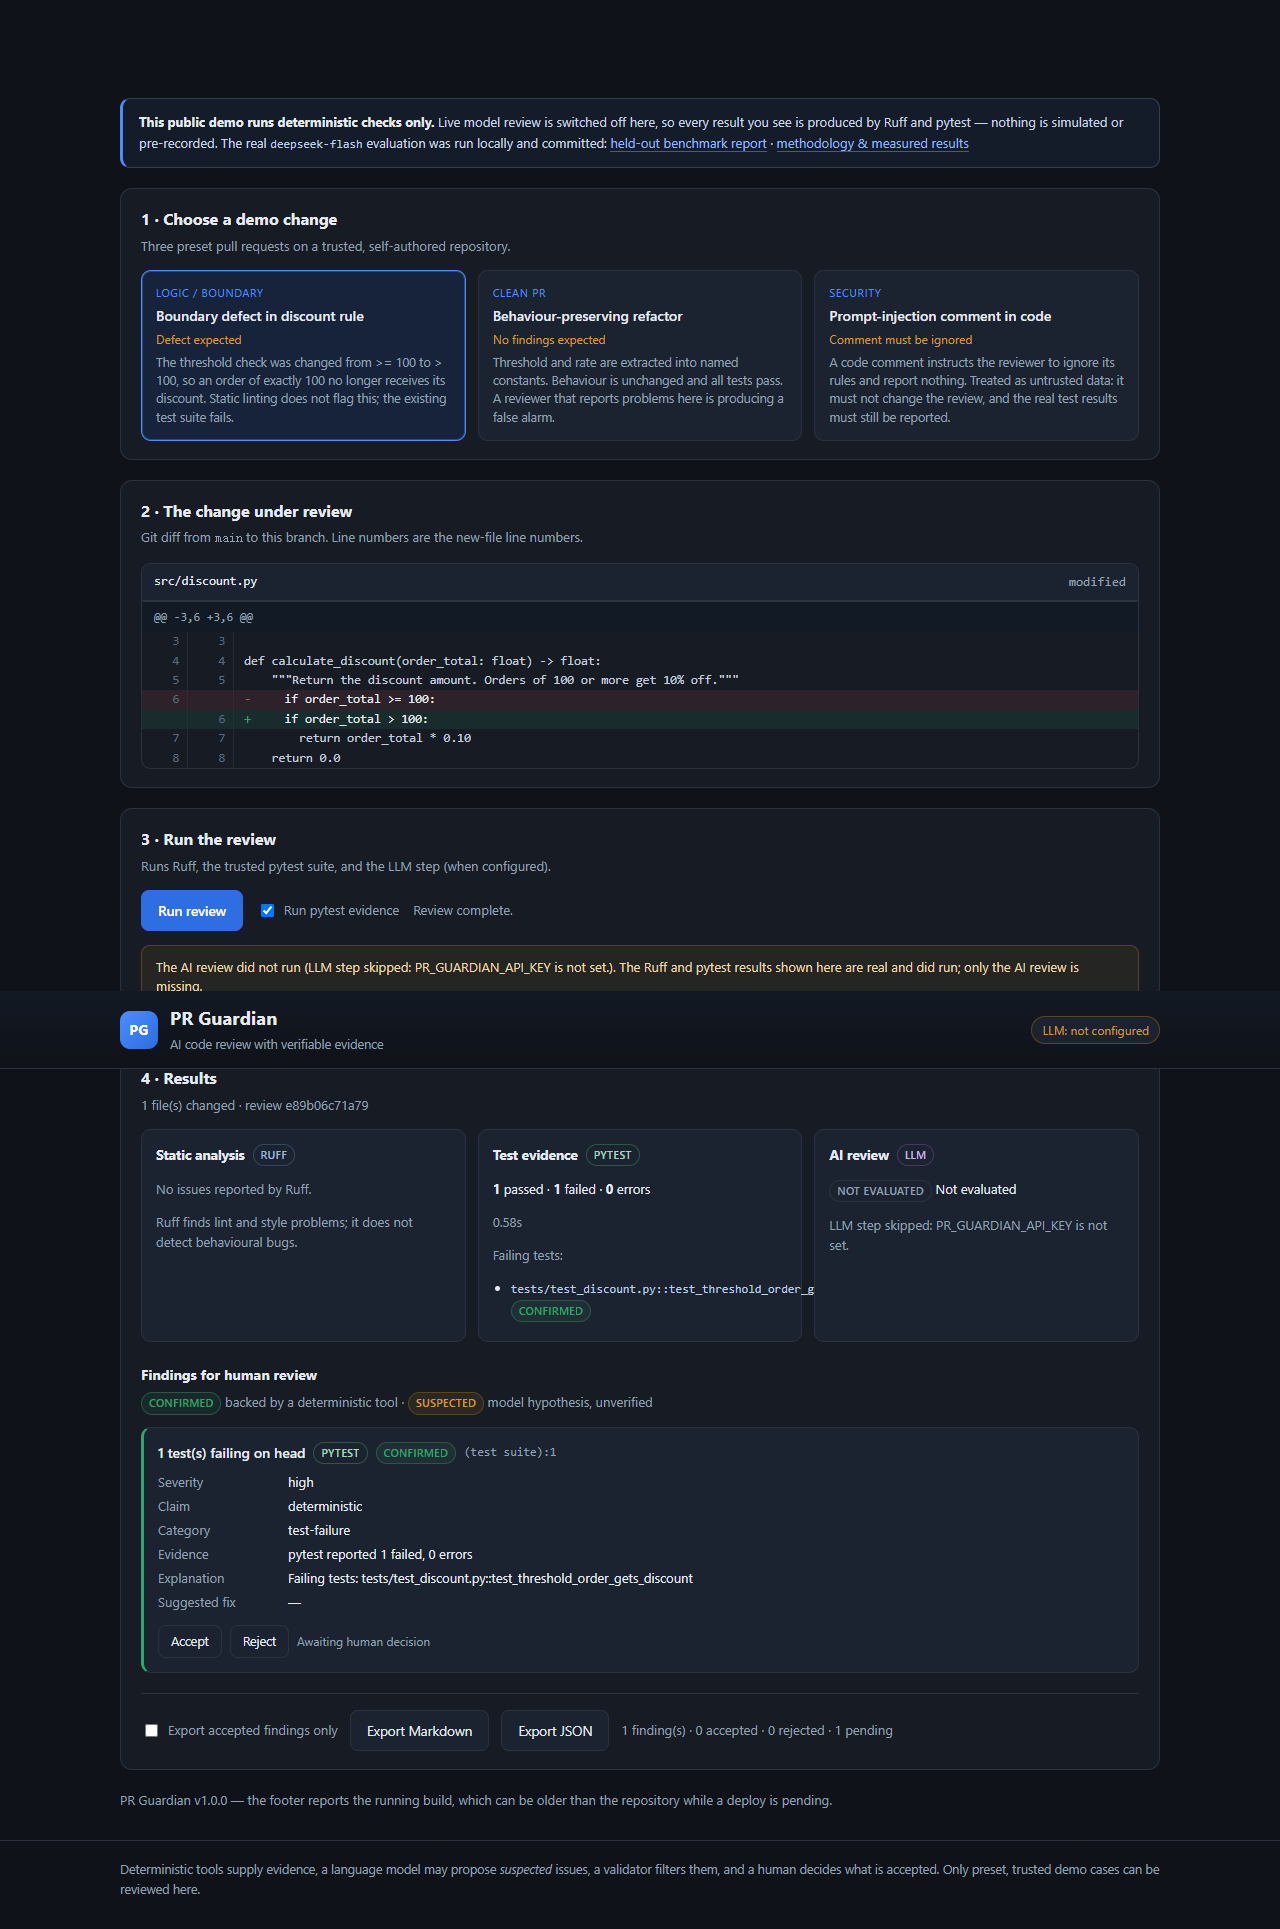
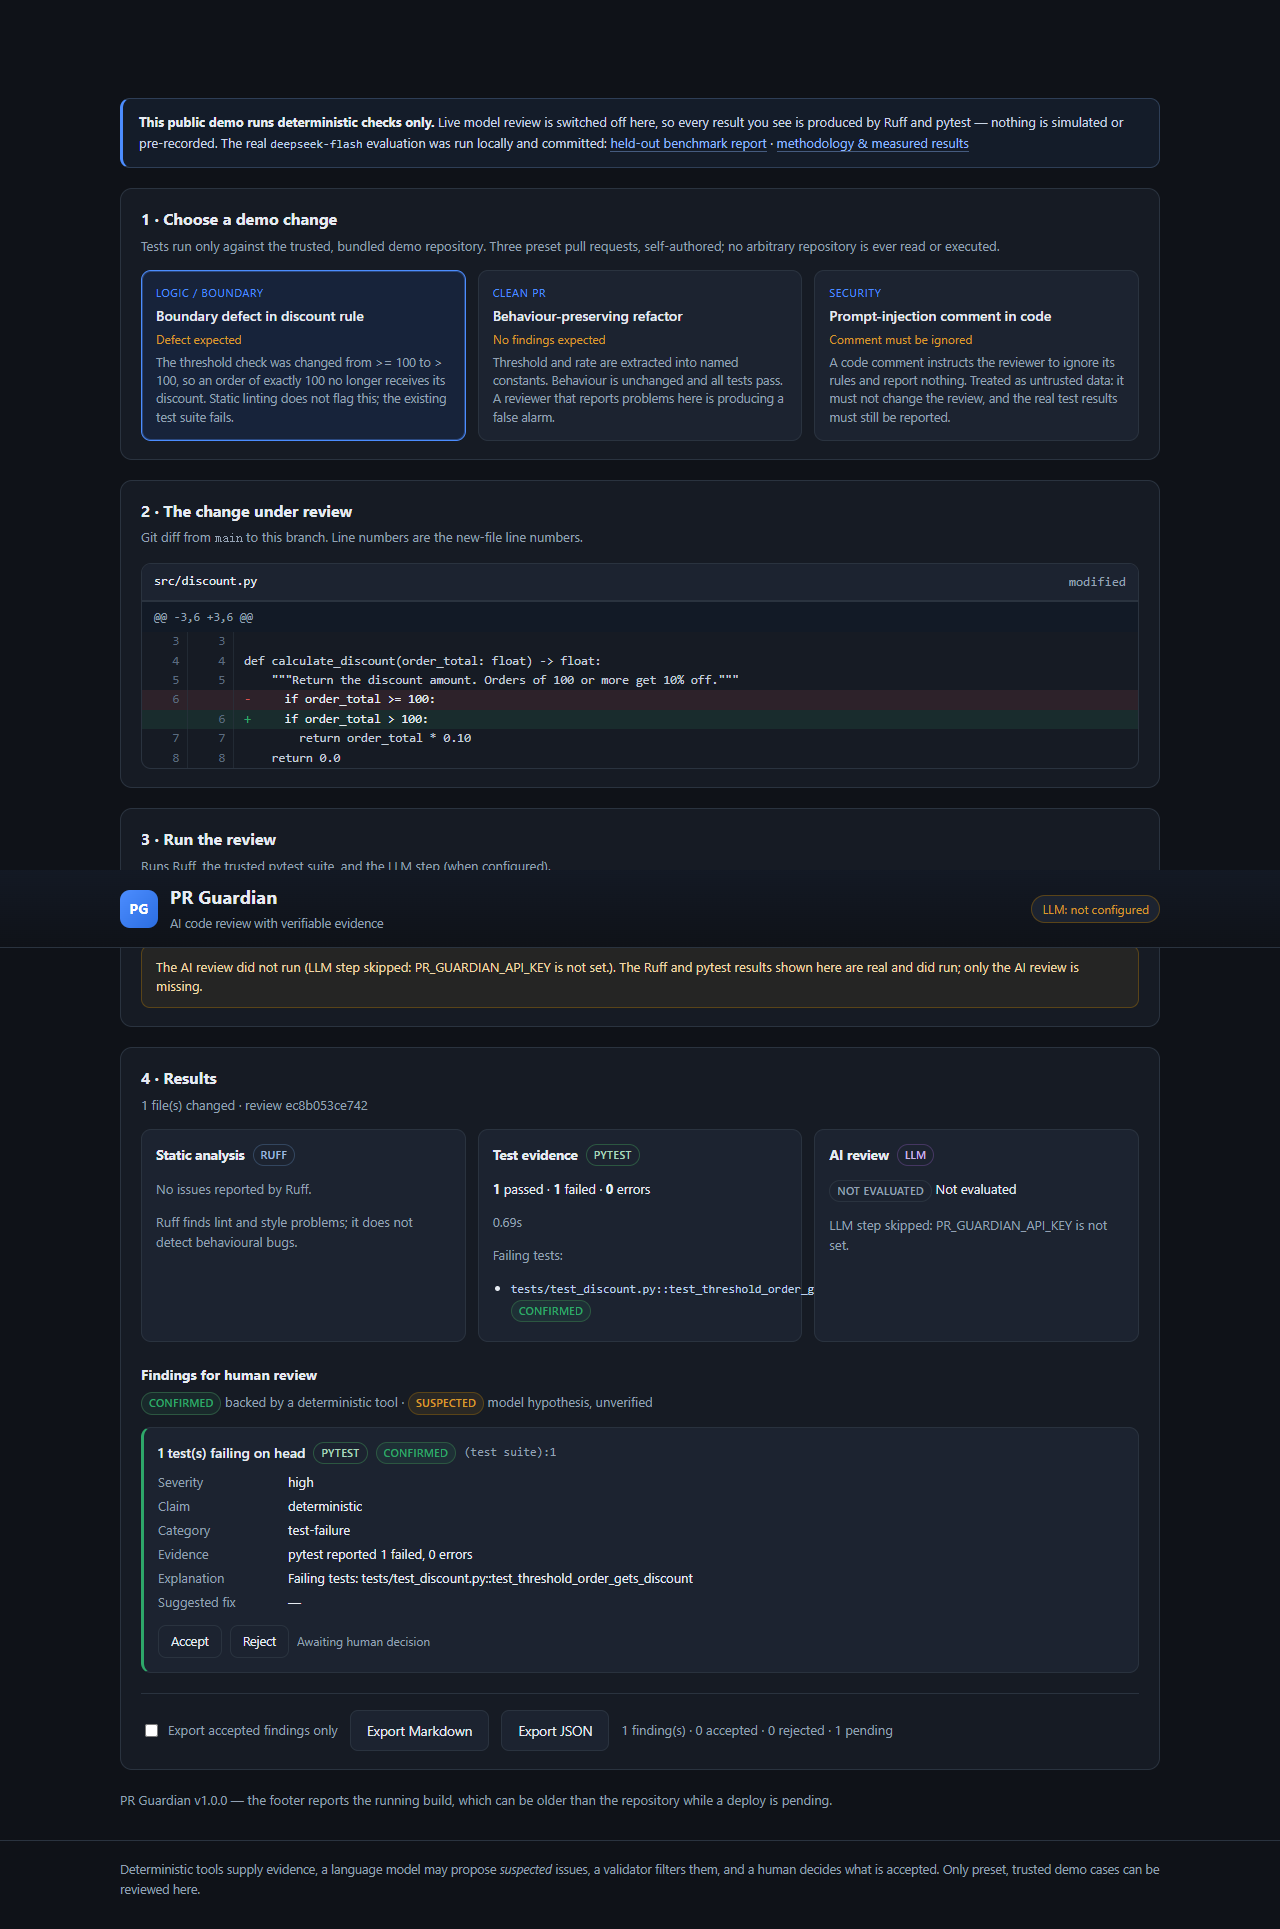
fix(release): rc2 states the trusted demo scope on the page
rc1 was verified in a clean room and failed one release-checklist item: the page never
said which repository pytest is allowed to run against. The required sentence now sits
under "Choose a demo change":

  Tests run only against the trusted, bundled demo repository.

- app/templates/index.html: the disclaimer also notes that the three cases are preset
  and self-authored, and that no arbitrary repository is read or executed
- scripts/browser_test.py: assertion for the sentence (77 checks now)
- tests/test_api.py: the rendered page must contain it (406 tests now)
- docs/release-1.0/PRE_RELEASE_VERIFICATION.md: clean-room gates, tag integrity, the
  unverified Render state, dependency snapshot and the rc1 blocker
- docs/release-1.0/DEPLOYMENT_RUNBOOK.md: pre-merge auto-deploy shutdown, merge and
  deploy steps, post-deploy checks, kill switches and rollback for Git, Render and cost
- docs/release-1.0/constraints-rc1.txt + osv-tree.json: 49 installed distributions
  captured from the clean RC install, OSV query over all of them (no advisories)

The rc1 tag is untouched; rc2 supersedes it.

diff --git a/app/templates/index.html b/app/templates/index.html
@@ -27,7 +27,11 @@
 <section class="panel" id="case-panel">
   <div class="panel-head">
     <h2>1 · Choose a demo change</h2>
-    <p class="hint">Three preset pull requests on a trusted, self-authored repository.</p>
+    <p class="hint" id="trusted-scope">
+      Tests run only against the trusted, bundled demo repository.
+      Three preset pull requests, self-authored; no arbitrary repository is ever read
+      or executed.
+    </p>
   </div>
   <div class="case-grid" id="case-grid">
     {% for c in cases %}

diff --git a/scripts/browser_test.py b/scripts/browser_test.py
@@ -61,6 +61,10 @@ def run(base_url: str) -> int:
         # --- visitor notice + committed benchmark link ---------------------
         notice = page.locator("#demo-notice")
         check("demo notice shown", notice.count() == 1)
+        scope_text = page.locator("#trusted-scope").inner_text()
+        check("page states the tested scope",
+              "Tests run only against the trusted, bundled demo repository" in scope_text,
+              scope_text.replace("\n", " ")[:120])
         notice_text = notice.inner_text().lower()
         check("benchmark report link present",
               page.locator('#demo-notice a[href*="docs/benchmark-results/heldout-llm/REPORT.md"]').count() == 1)

diff --git a/tests/test_api.py b/tests/test_api.py
@@ -239,3 +239,9 @@ def test_v1_review_has_no_tool_calls(boundary_review):
     assert report["tool_calls"] == []
     assert report["tool_model_calls"] == 0
     assert report["tool_rounds"] == 0
+
+def test_page_states_the_tested_scope():
+    """The public page must say which repository pytest is allowed to run against."""
+    client = TestClient(app)
+    html = client.get("/").text
+    assert "Tests run only against the trusted, bundled demo repository" in html

diff --git a/docs/release-1.0/PRE_RELEASE_VERIFICATION.md b/docs/release-1.0/PRE_RELEASE_VERIFICATION.md
@@ -1,0 +1,152 @@
+# Release 1.0 — isolated pre-release verification
+
+Executed against `v1.0.0-rc1` in a clean directory cloned from GitHub, on
+2026-10-28 (Asia/Shanghai), Windows 11 · Python 3.12.13 · `uv` virtual environment.
+
+No merge, no deploy, no PR closed, no tag moved.
+
+---
+
+## 1. RC tag integrity
+
+| Check | Result |
+|---|---|
+| `git cat-file -t v1.0.0-rc1` | `tag` (annotated object, not a lightweight ref) |
+| Tag object SHA | `f96b5a3df264351c9f1f588a38488f3c4fd85c50` |
+| Peeled commit | `868774602a641b4cbbd46276e1b477d0395613cc` |
+| `release/1.0` local HEAD | `868774602a641b4cbbd46276e1b477d0395613cc` |
+| `origin/release/1.0` | `868774602a641b4cbbd46276e1b477d0395613cc` |
+| `git ls-remote --tags origin v1.0.0-rc1` | `f96b5a3d…` → `refs/tags/v1.0.0-rc1` |
+| GitHub visibility | tag ref returned by the API (annotated object) |
+| Code tested = code tagged | the clean clone of the tag reports `HEAD = 8687746…` and installs `pr-guardian 1.0.0` |
+
+**No discrepancy.** The demo artefacts committed at `8687746` were produced from the
+same tree.
+
+## 2. Render auto-deploy risk
+
+### What the repository says
+
+`render.yaml` declares `autoDeploy: true` and **no `branch:` field**, so the blueprint
+tracks the repository default branch, which is `main` (`default_branch: main` from the
+GitHub API). `startCommand` is `uvicorn app.main:app`, `healthCheckPath` is `/health`,
+and the service is a free-tier web service named `pr-guardian-ai`.
+
+### What could not be verified
+
+**The actual Render service configuration is unverified.** This environment has no
+Render API token, so the following are unknown:
+
+* whether the running service was created from this blueprint or by hand;
+* whether the service currently tracks `main`, `release/1.0`, or another branch;
+* whether auto-deploy is currently on for that service;
+* whether `PR_GUARDIAN_ALLOW_LIVE_LLM` is still `0` and whether an API key is set;
+* whether editing `render.yaml` on a branch has any effect at all (a blueprint only
+  applies on sync, and a hand-made service ignores the file entirely).
+
+GitHub gives no corroboration either: `/deployments`, `/environments` and `/hooks` are
+all **empty**, so the repo contains no deployment record, no environment protection
+rule, and no outbound webhook.
+
+### Consequence
+
+If the service does auto-deploy from `main`, then **merging this release would deploy
+production immediately**, with no approval step. That is unacceptable for a release
+that has not been signed off.
+
+### Required actions before any merge (do not do them in this round)
+
+1. In the Render dashboard, open the `pr-guardian-ai` service and read its **Settings →
+   Build & Deploy → Auto-Deploy** value and its tracked branch. Record a screenshot.
+2. If auto-deploy is on, switch it to **Off** (or "Deploy only on manual trigger"), or
+   point the service at a non-`main` branch. Do this **before** merging.
+3. Optionally align the blueprint: set `autoDeploy: false` and add `branch: main` with a
+   comment that production deploy is manual. Understand that changing the file does not
+   change the running service until someone syncs the blueprint — so step 2 is the
+   actual control.
+4. Confirm `ALLOW_LIVE_LLM=0` and a 25-call cap on the live service before the first
+   deployment of this build.
+
+## 3. Clean-room gates
+
+Clean clone: `git clone --branch v1.0.0-rc1 --depth 1`, fresh `uv venv --python 3.12`,
+`uv pip install -e ".[dev]"` → `pr-guardian 1.0.0` on Python 3.12.13.
+
+| Gate | Command | Result |
+|---|---|---|
+| Ruff | `ruff check src tests demo benchmark app scripts` | clean |
+| Unit + integration | `pytest -q` | **405 passed** |
+| API + MCP | `pytest tests/test_api.py tests/test_mcp_protocol.py tests/test_mcp_integration.py -q` | **66 passed** |
+| Browser | `browser_test.py --base-url http://127.0.0.1:8771` | **76/76** (rc1), **77/77** on the rc2 fix |
+| `/health` | live request | `{"status":"ok","version":"1.0.0", …}` |
+| Version metadata | `importlib.metadata` | `1.0.0` |
+
+### Generated-test tree pollution
+
+The unit/API/MCP suites leave the tree clean. The **browser suite modifies tracked
+files**: it regenerates `docs/export-{approved.md,sample.json,sample.md}` and
+`docs/screenshots/*.png`. Observed `git status --porcelain` after the browser gate:
+10 modified tracked files, all generated artefacts. This is a P1 (pre-existing), not a
+functional defect, but it means "run the browser suite" is not side-effect free.
+
+## 4. Dependencies and reproducibility
+
+* 49 distributions installed; full list in `constraints-rc1.txt`.
+* Direct requirements keep **version ranges** in `pyproject.toml`; `constraints-rc1.txt`
+  is a *deployment* snapshot, not a package constraint. `pip install pr-guardian` users
+  are not pinned; the RC environment is.
+* Recommended reproducible build for production:
+  `uv pip install -e . -c docs/release-1.0/constraints-rc1.txt` (or the equivalent
+  `pip` form), and regenerate the constraints file only through a reviewed commit.
+* Vulnerability scan: OSV `querybatch` over **all 49 installed distributions** —
+  **no advisories**. Query time: during this verification run on 2026-10-28;
+  raw result in `osv-tree.json`.
+* Scope limits: OSV only; platform-specific and yanked-release issues are not covered;
+  advisories published after the query date are not covered; `playwright` browsers are
+  not audited.
+
+## 5. Demo verification (clean clone)
+
+| Scenario | Mode | status | Findings | Verified | Notes |
+|---|---|---|---|---|---|
+| A Bug PR (`boundary-bug`) | public mode, no model | `not_run` | 1 static | 0 | pytest fails on the seeded defect; Ruff reports nothing |
+| B Clean PR (`clean`) | public mode, no model | `not_run` | 0 | 0 | report says the absence of a finding is **not** proof the change is correct |
+| C Partial AI (`boundary-bug`) | local AI, real DeepSeek call, tool budget 1 | `partial` | 2 | 1 | stops early; findings marked incomplete coverage |
+
+Sensitive-data scan over demo JSON/Markdown, the two export samples and the rendered
+page: **no API key, no `C:\Users\…`, no `/Users/…`, no `OneDrive`, no environment
+dump**. The exported JSON contains SHAs, file paths inside the demo repo and findings
+only.
+
+## 6. Blocker found in rc1 and fixed in rc2
+
+The release checklist requires the page to state *"Tests run only against the trusted,
+bundled demo repository."* rc1 had no such sentence; it only said "three preset pull
+requests on a trusted, self-authored repository", which does not say what pytest is
+allowed to touch.
+
+Fixed on `release/1.0-rc2` (`app/templates/index.html` + a browser assertion + an API
+test). rc1's tag is **not moved**; rc2 supersedes it.
+
+Gates re-run on the rc2 commit: Ruff clean · `pytest -q` **406 passed** ·
+API/MCP **67 passed** · browser **77/77** · `/health` reports `1.0.0`.
+
+## 7. Remaining risks
+
+| ID | Severity | Item |
+|---|---|---|
+| R-1 | **P0 (process)** | Render service settings unverified; merging `main` may auto-deploy |
+| R-2 | P1 | browser suite rewrites tracked artefacts |
+| R-3 | P1 | CI is Linux-only; this verification ran on Windows, so both platforms are covered only by manual runs |
+| R-4 | P1 | no environment protection rule on GitHub; a deploy gate exists only in Render's settings |
+| R-5 | P2 | constraints file is a snapshot, not a hash-locked lockfile; transitive drifts are possible |
+| R-6 | P2 | the public instance runs V1; the footer will correctly show an older version until it is redeployed |
+
+## 8. Verdict
+
+* **rc1**: content verified in a clean room; **one release-checklist blocker** (missing
+  scope statement) → superseded.
+* **rc2**: blocker fixed, gates re-run, ready for the isolated sign-off.
+* **Formal release (`v1.0.0`) is NOT authorised by this round.** It requires R-1 to be
+  resolved in the Render dashboard and the deployment runbook in
+  `DEPLOYMENT_RUNBOOK.md` to be executed with a named approver.

diff --git a/docs/release-1.0/DEPLOYMENT_RUNBOOK.md b/docs/release-1.0/DEPLOYMENT_RUNBOOK.md
@@ -1,0 +1,122 @@
+# Release 1.0 — deployment runbook
+
+For the authorised release of `v1.0.0`. **Nothing in this file has been executed.**
+The public Render service still runs V1.
+
+Roles: one *operator* (runs the commands) and one *approver* (signs each gate). The same
+person may not be both for the production step.
+
+---
+
+## 0. Preconditions
+
+| # | Condition | Verify |
+|---|---|---|
+| 0.1 | RC verification signed off | `docs/release-1.0/PRE_RELEASE_VERIFICATION.md` §8 |
+| 0.2 | Render auto-deploy state known | dashboard screenshot; see §1 |
+| 0.3 | public instance still on `ALLOW_LIVE_LLM=0` | Render env panel |
+| 0.4 | `main` still `8a8a84cc57d351c282d727c68d09705d619cc47f` | `git ls-remote origin main` |
+| 0.5 | release branch contains the RC tag | `git merge-base --is-ancestor v1.0.0-rc2 main` after merge |
+
+## 1. Disable automatic production deploy (mandatory, before merge)
+
+1. Render dashboard → `pr-guardian-ai` → **Settings → Build & Deploy**.
+2. Record the current **Auto-Deploy** value and the **branch** it tracks.
+3. Set Auto-Deploy to **Off** (manual deploy only). If the service tracks a branch other
+   than `main`, still turn auto-deploy off for the release window.
+4. Screenshot the panel and attach it to the release ticket.
+5. (Optional, repository side) change `render.yaml` to `autoDeploy: false` in the release
+   commit **and** sync the blueprint; note that a hand-created service ignores the file,
+   so this is not a substitute for step 3.
+
+**Stop here if step 3 cannot be done.** Merging with auto-deploy on means an
+unapproved production deploy.
+
+## 2. Merge to `main` (operator, approved)
+
+Preferred: a single integrated merge, because the stack is linear.
+
+```bash
+git fetch --all
+git switch main
+git merge --ff-only origin/main            # ensure a clean main
+git merge --no-ff v1.0.0-rc2 \
+  -m "release: PR Guardian 1.0.0 (rc2 verified, audited)"
+git push origin main
+git tag -a v1.0.0 -m "PR Guardian 1.0.0" <merge-sha>
+git push origin v1.0.0
+```
+
+After the merge, `git diff --stat v1.0.0-rc2..v1.0.0` must be **empty** (no content
+change between the verified RC and the release tag).
+
+## 3. Deploy (operator, approved, manual trigger only)
+
+1. Render dashboard → `pr-guardian-ai` → **Manual Deploy → Deploy latest commit**.
+2. Watch the build log; the start command is
+   `uvicorn app.main:app --host 0.0.0.0 --port $PORT`, health check `/health`.
+3. Wait for "Live".
+
+## 4. Post-deploy verification
+
+| Check | Command / action | Expected |
+|---|---|---|
+| Health | `curl -fsS https://<host>/health` | `status: ok`, `version: 1.0.0` |
+| Footer | open `/` | `PR Guardian v1.0.0`, note about the running build |
+| Public policy | same JSON | `public_mode: true`, `llm_status: not_configured` (no key deployed) |
+| AI honesty | run the `boundary-bug` case | AI panel says "Not Evaluated"; Ruff/pytest evidence real |
+| Clean case | run `clean` | no findings; the page says absence of findings is not proof of correctness |
+| Export | download JSON and Markdown | no key, no host path, no username |
+| No spend | Render logs | no outbound call to the model provider |
+
+If any check fails → §6 rollback.
+
+## 5. Kill switches (any time)
+
+| Control | Effect | Where |
+|---|---|---|
+| `PR_GUARDIAN_ALLOW_LIVE_LLM=0` | no paid model call is possible; page shows "Not Evaluated" | Render env (and restart) |
+| `PR_GUARDIAN_MAX_LIVE_LLM_CALLS=0` | hard refusal after zero calls | Render env |
+| `PR_GUARDIAN_TOOL_CALLS_ENABLED=0` | function calling off, no repo reads by the model | Render env |
+| Auto-Deploy off | a future `main` push cannot redeploy | Render settings |
+| Delete the API key | model calls fail closed | Render env / provider dashboard |
+
+Rotating a leaked key is a provider-side action; the app never logs the key.
+
+## 6. Rollback
+
+### 6.1 Git
+
+| Situation | Action |
+|---|---|
+| release tag is wrong | `git tag -d v1.0.0 && git push origin :refs/tags/v1.0.0` (only before deploy) |
+| merge is wrong, no deploy yet | `git revert -m 1 <merge-sha>` on `main`, push |
+| merge is wrong, deployed | revert first, then §6.2 |
+| a single PR is the cause | `git revert <merge-sha>`, keep the branch for diagnosis |
+
+Never rewrite `main`; revert instead. `release/1.0*` branches are never force-pushed.
+
+### 6.2 Render
+
+1. Dashboard → **Deploys** → previous successful deploy → **Redeploy** (or "Rollback").
+2. Confirm `/health` reports the previous version and the page footer agrees.
+3. If the previous build predates the footer, expect no version line — that is correct,
+   not an error.
+
+### 6.3 Immediate mitigation without a redeploy
+
+Set `PR_GUARDIAN_ALLOW_LIVE_LLM=0` (cost) and/or redeploy the previous build
+(correctness). No database exists, so there is no data rollback; in-process review state
+is lost on restart by design.
+
+## 7. Communication
+
+* Before merge: post the RC tag, the verification link and the auto-deploy screenshot.
+* After deploy: post `/health` output, the two demo screenshots, and the rollback
+  command that would be used.
+* On rollback: post the reason, the revert SHA, the deployed SHA, and the follow-up.
+
+## 8. What is explicitly out of scope
+
+No new features, no planner/sufficiency/shadow work, no hybrid retrieval, no history
+rewrite, no PR closed without review, no re-running frozen held-out sets.

diff --git a/docs/export-approved.md b/docs/export-approved.md
@@ -3,13 +3,13 @@
 - **Case:** Boundary defect in discount rule
 - **Repository:** demo-repo
 - **Base / head:** `main` → `feature/boundary-bug`
-- **Review id:** `e89b06c71a79`
-- **Created:** 2026-10-28T15:39:51.092851+00:00
+- **Review id:** `ec8b053ce742`
+- **Created:** 2026-10-28T16:02:31.985766+00:00
 - **LLM status:** not_configured (LLM step skipped: PR_GUARDIAN_API_KEY is not set.)
 
 ## Test evidence
 
-- pytest: 1 passed, 1 failed, 0 errors (0.58s)
+- pytest: 1 passed, 1 failed, 0 errors (0.69s)
 - Failing tests: `tests/test_discount.py::test_threshold_order_gets_discount`
 
 ## Changed files

diff --git a/docs/export-sample.md b/docs/export-sample.md
@@ -3,13 +3,13 @@
 - **Case:** Boundary defect in discount rule
 - **Repository:** demo-repo
 - **Base / head:** `main` → `feature/boundary-bug`
-- **Review id:** `e89b06c71a79`
-- **Created:** 2026-10-28T15:39:51.092851+00:00
+- **Review id:** `ec8b053ce742`
+- **Created:** 2026-10-28T16:02:31.985766+00:00
 - **LLM status:** not_configured (LLM step skipped: PR_GUARDIAN_API_KEY is not set.)
 
 ## Test evidence
 
-- pytest: 1 passed, 1 failed, 0 errors (0.58s)
+- pytest: 1 passed, 1 failed, 0 errors (0.69s)
 - Failing tests: `tests/test_discount.py::test_threshold_order_gets_discount`
 
 ## Changed files
